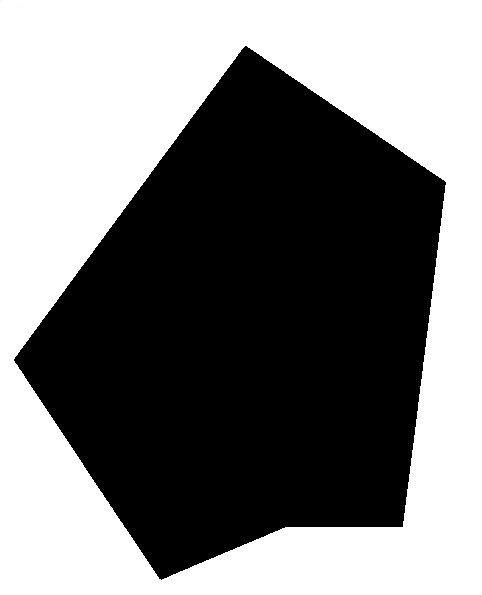
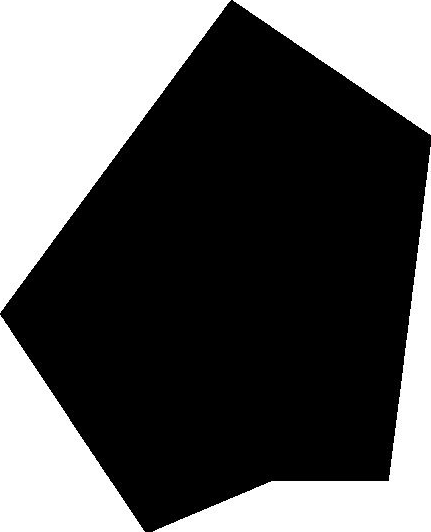
画像の無駄な余白をなくす

Changed region(s): [[0.0, 0.0, 1.0, 1.0], [0.0905, 0.6917, 0.2413, 0.8722]]

diff --git a/OptimisationImage/opencv/main.cpp b/OptimisationImage/opencv/main.cpp
@@ -17,7 +17,7 @@
 
 //渡したMatデータが透過して帰ってくる
 void transmission(cv::Mat &);
- 
+
 //不要な白い部分をカットする
 void cut(cv::Mat &);
 
@@ -45,14 +45,38 @@ void transmission(cv::Mat &source) {
 	for (int y = 0; y < alpha_image.rows; ++y) {
 		for (int x = 0; x < alpha_image.cols; ++x) {
 			cv::Vec4b px = alpha_image.at<cv::Vec4b>(y, x);
-			if (px[0] + px[1] + px[2] == 255*3) {
+			if (px[0] + px[1] + px[2] == 255 * 3) {
 				px[3] = 0;
 				alpha_image.at<cv::Vec4b>(y, x) = px;
 			}
 		}
 	}
+	source = alpha_image;
+	//cv::imshow("aaa", source);
 }
 
-void cut(cv::Mat &) {
-	
+void cut(cv::Mat &source) {
+	cv::Mat alpha_image = cv::Mat(source.size(), CV_8UC3);
+	cv::cvtColor(source, alpha_image, CV_RGB2RGBA);
+	//maxとmin初期化
+	cv::Point ma, mi;
+	mi = cv::Point(1000, 1000);
+	ma = cv::Point(0, 0);
+
+	for (int y = 0; y < alpha_image.rows; ++y) {
+		for (int x = 0; x < alpha_image.cols; ++x) {
+			cv::Vec4b px = alpha_image.at<cv::Vec4b>(y, x);
+			//黒だったら
+			if (px[0] + px[1] + px[2] == 0) {
+				mi.x = std::min(mi.x, x);
+				mi.y = std::min(mi.y, y);
+				ma.x = std::max(ma.x, x);
+				ma.y = std::max(ma.y, y);
+			}
+		}
+	}
+
+	cv::Mat roi_img(alpha_image, cv::Rect(mi.x, mi.y , (ma.x - mi.x), (ma.y - mi.y)));
+	//cv::imshow("bbb", roi_img);
+	source = roi_img;
 }
